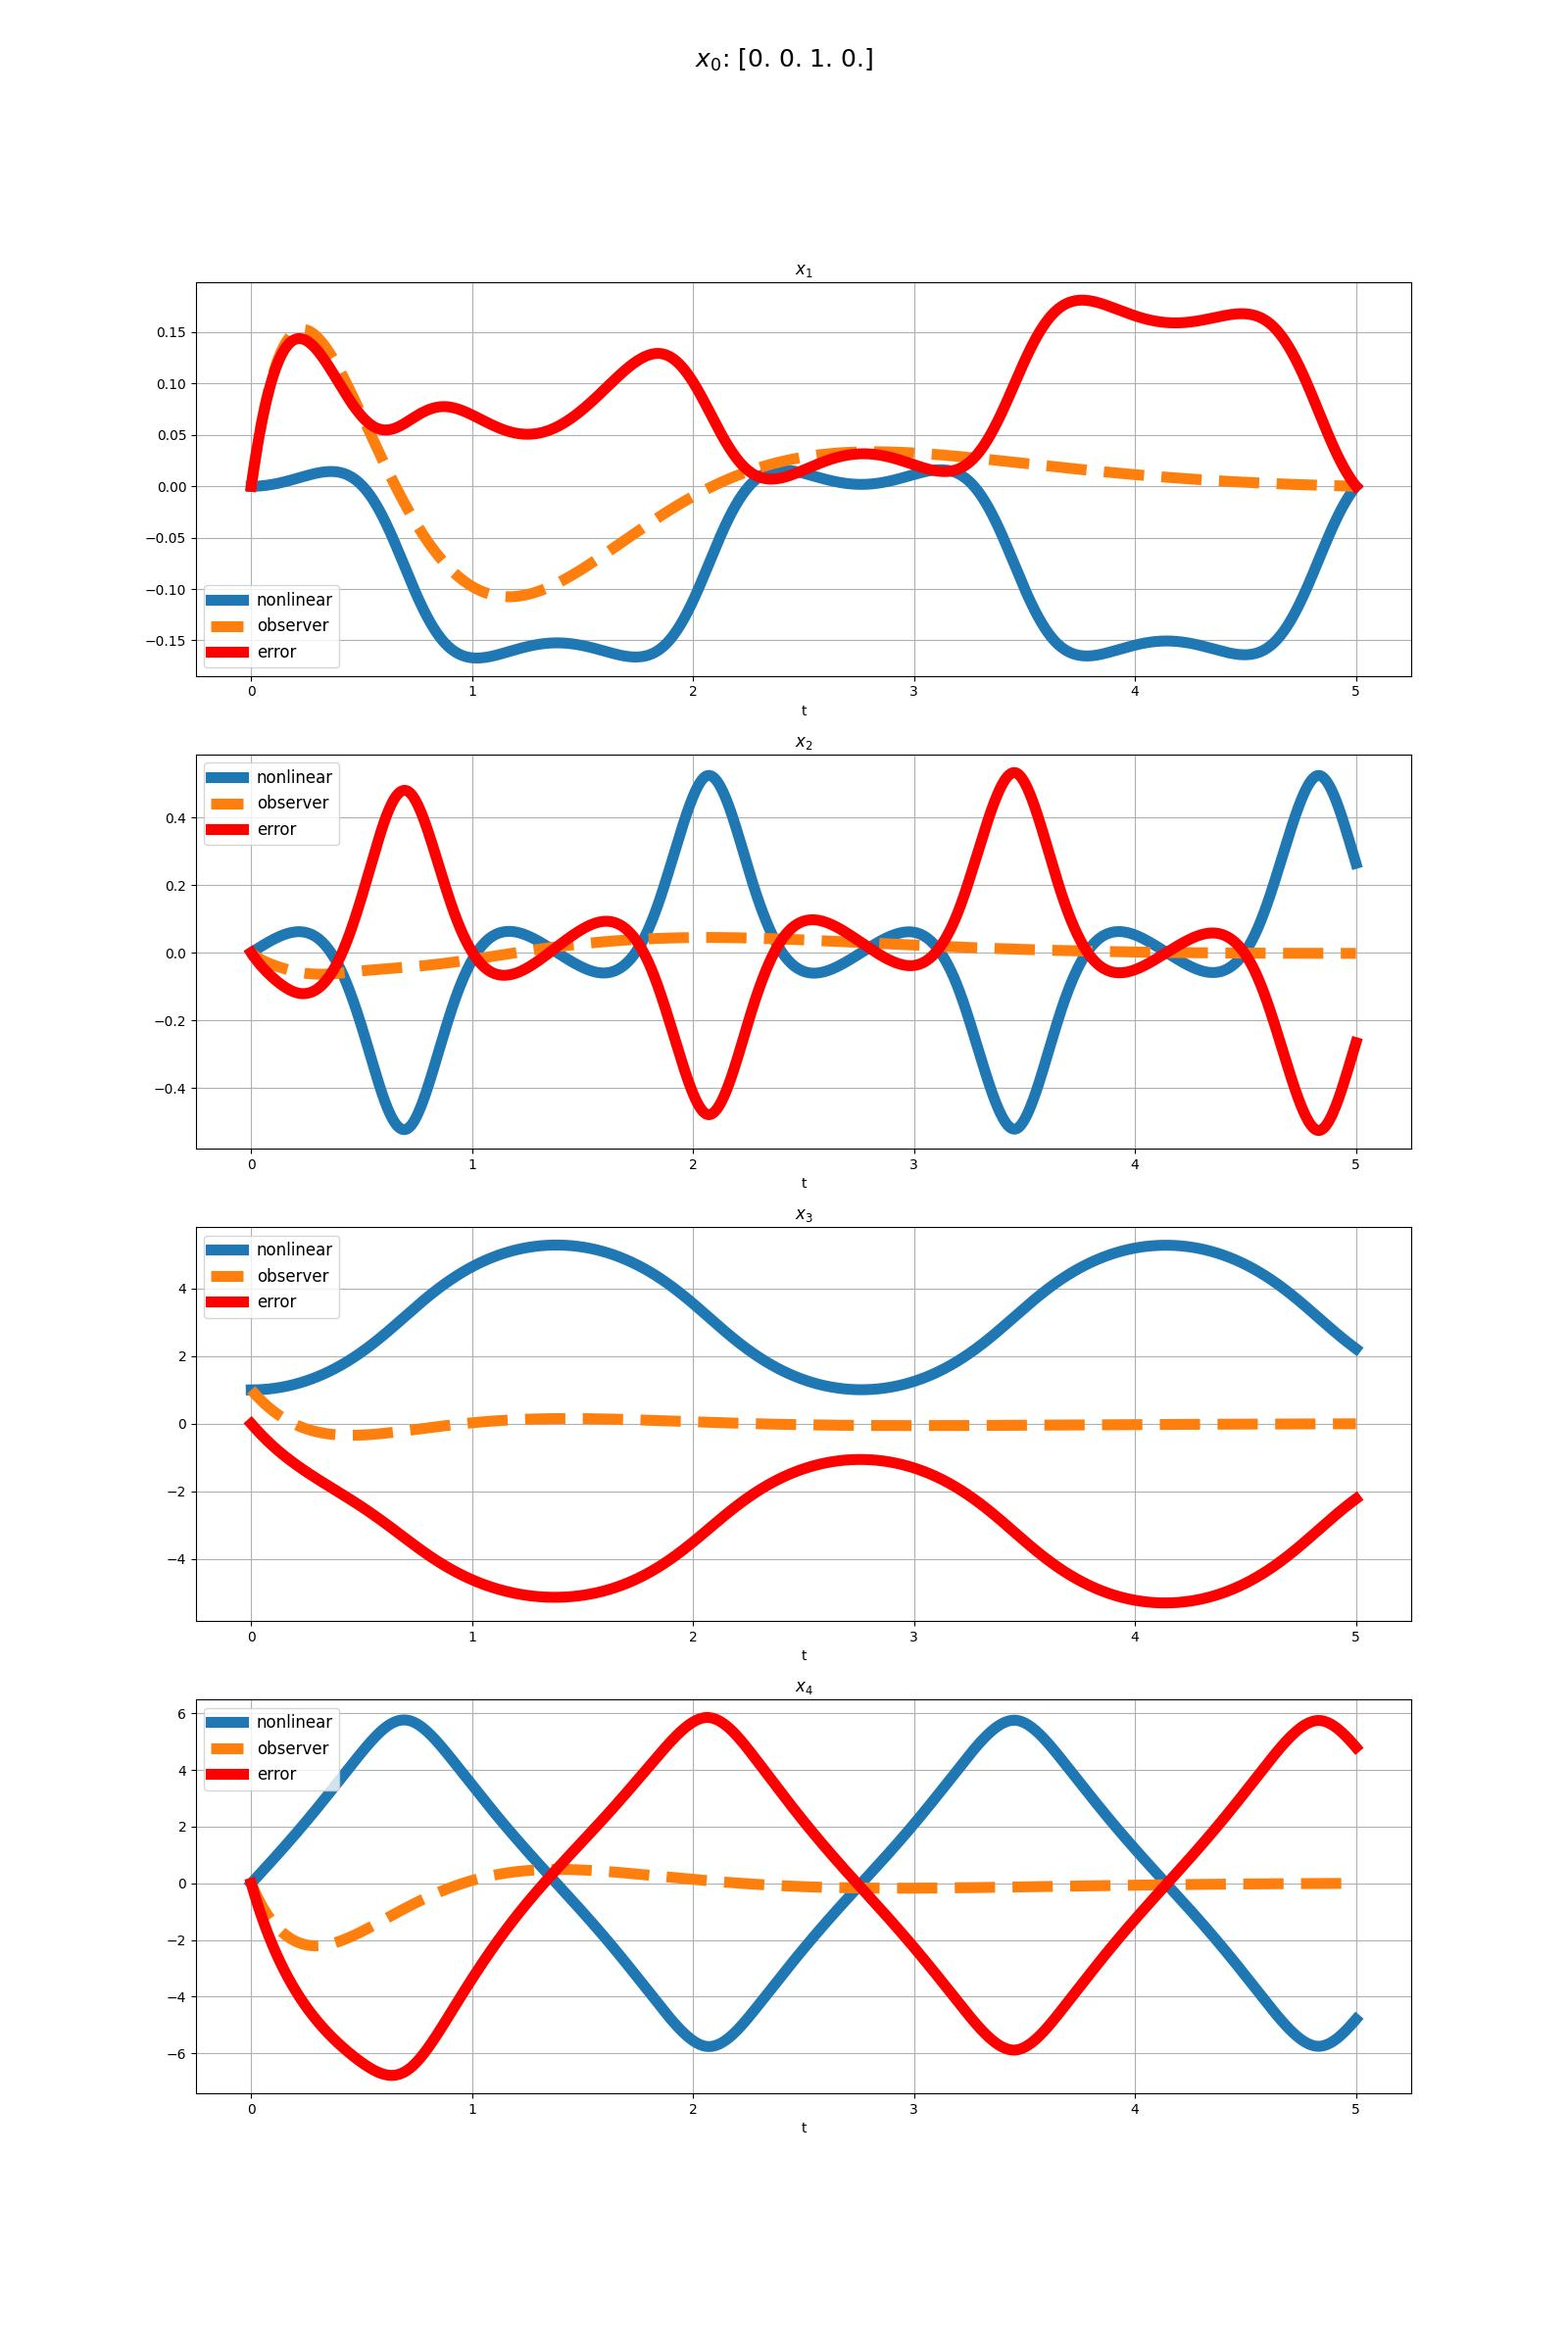
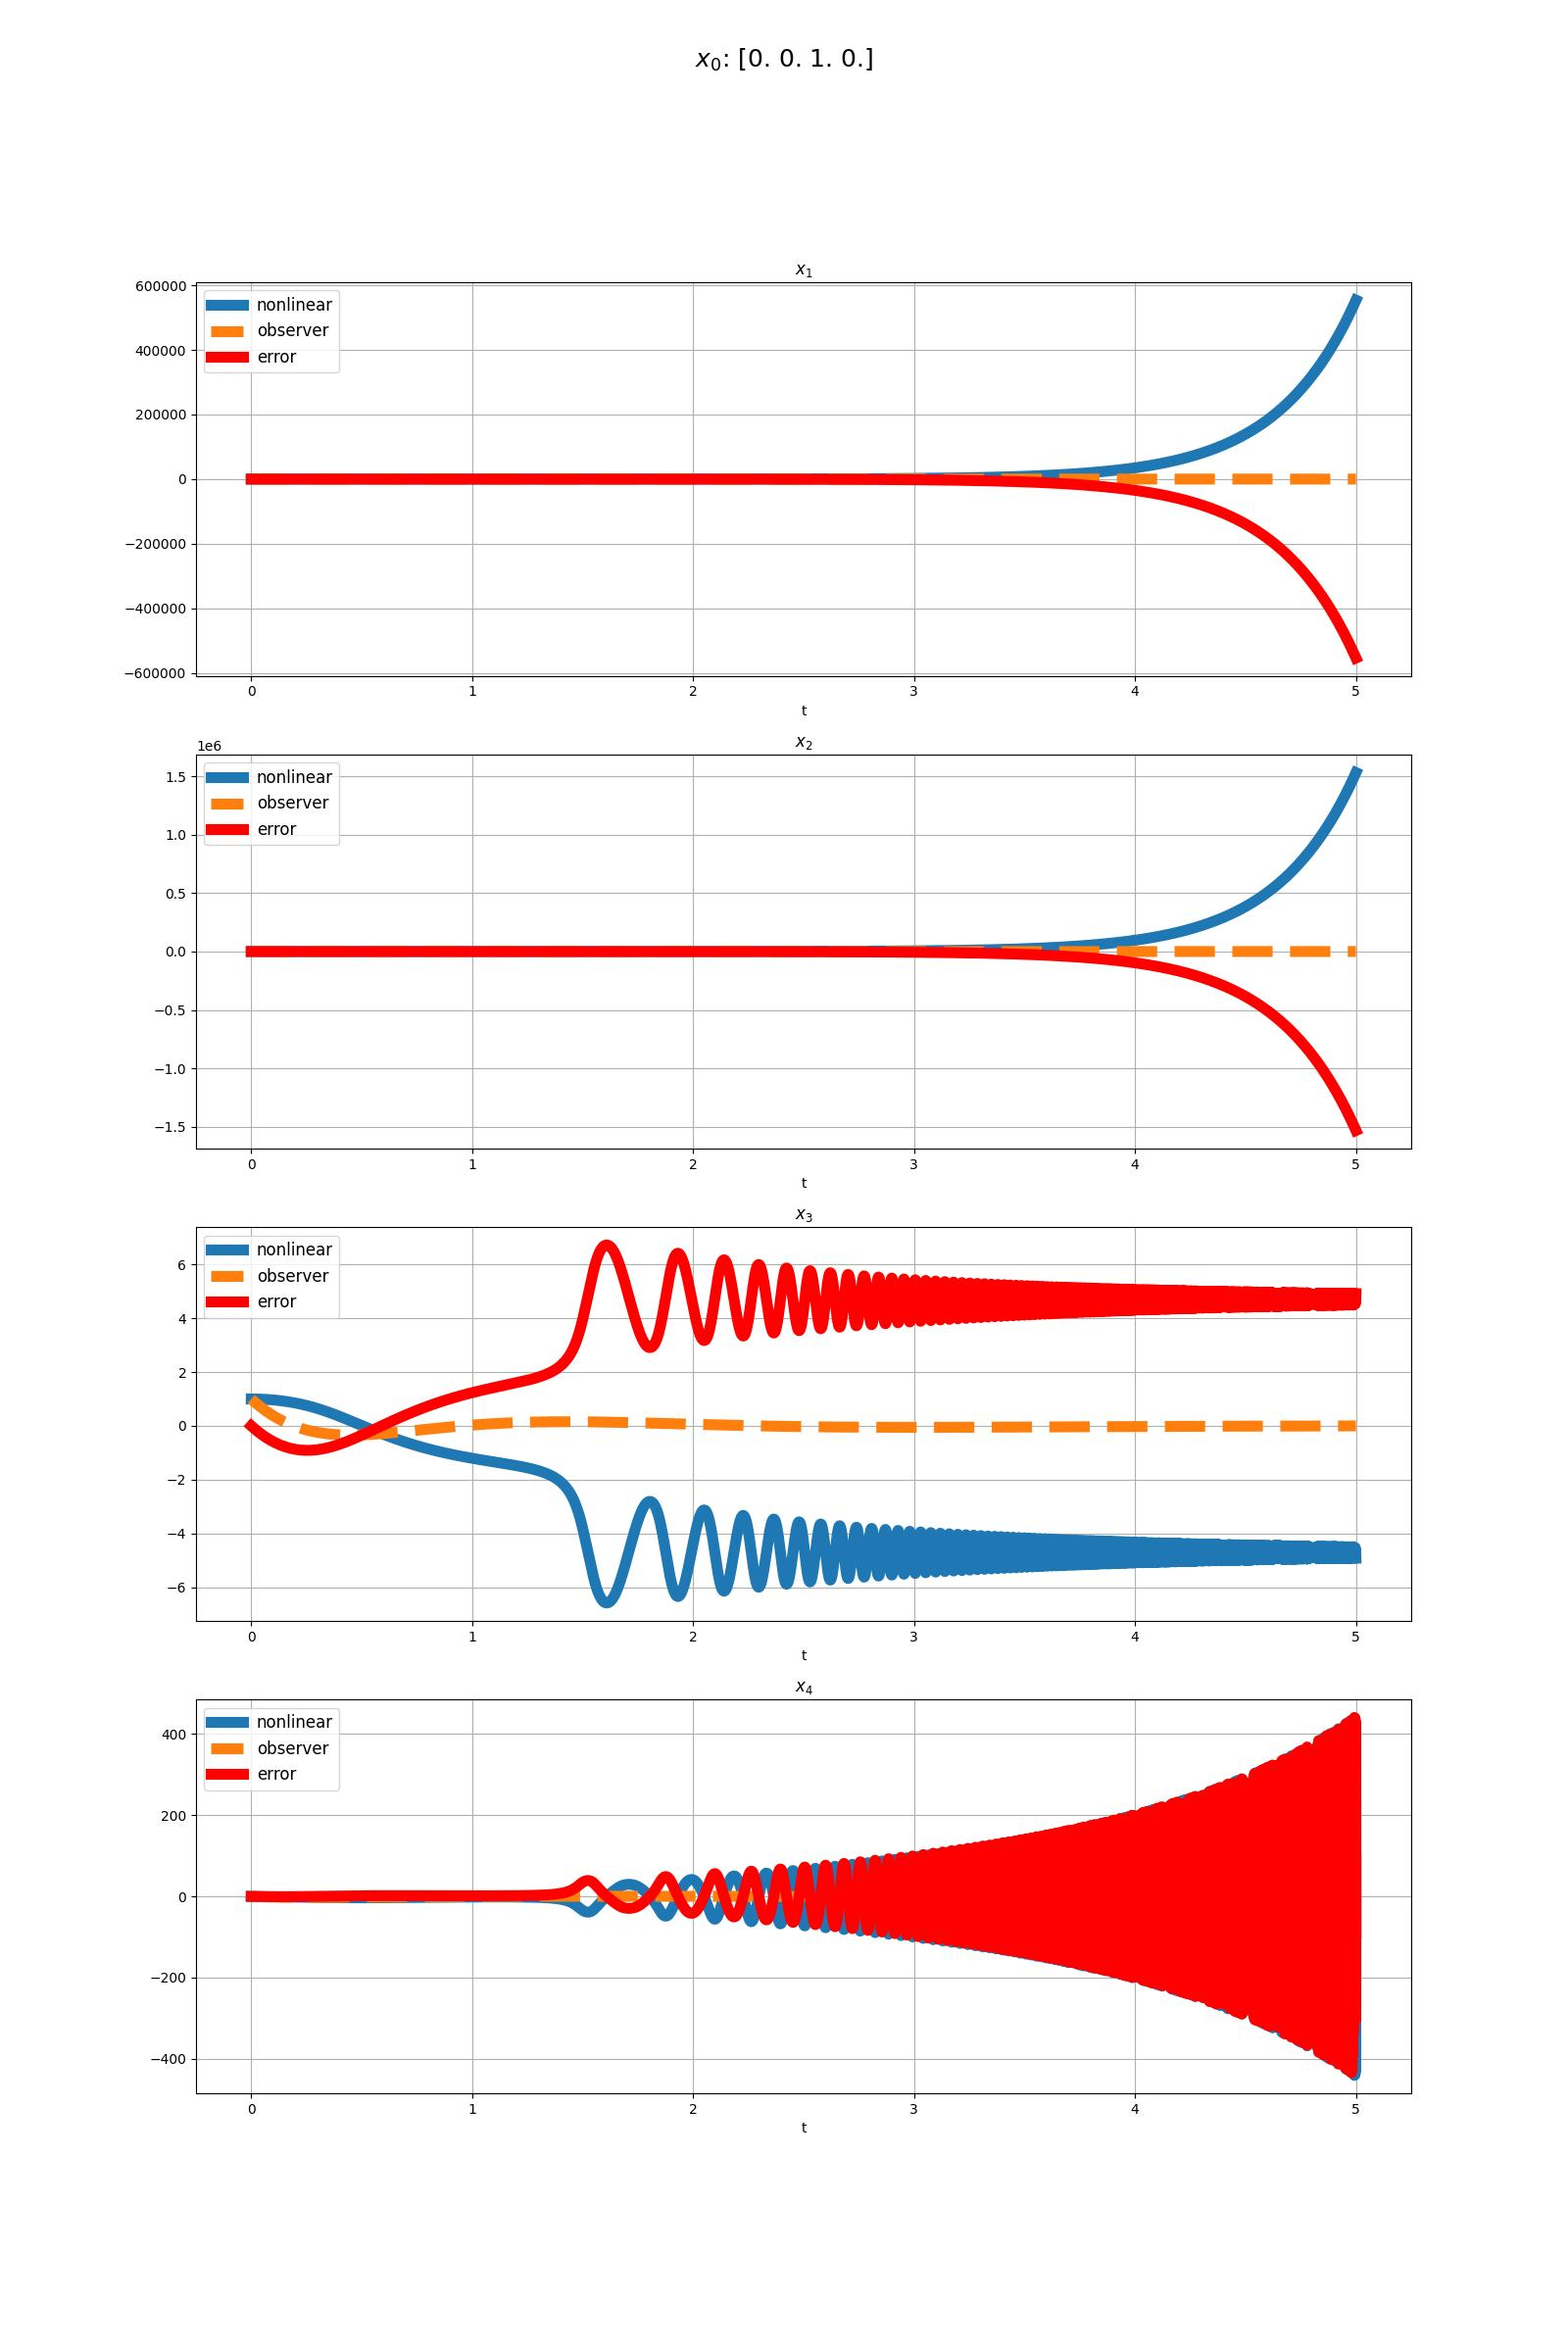
chapter 3 task 4 new reports

diff --git a/kurs/chapter3.py b/kurs/chapter3.py
@@ -238,7 +238,7 @@ def task4(A, B, C, D):
         l, new_spec = get_l_modal(A, C, gamma, y)
         print(f"new spec:\n {new_spec}")
         x0 = np.array([0.0, 0.0, 1.0, 0.0])
-        k = get_k_modal(A, B, gamma, set_y(A, B))
+        k, new_spec = get_k_modal(A, B, gamma, set_y(A, B))
         ss_nonlin = control.NonlinearIOSystem(updfcn_modal, params={"K": k})
         ss_nonlin.set_inputs(2)
 
